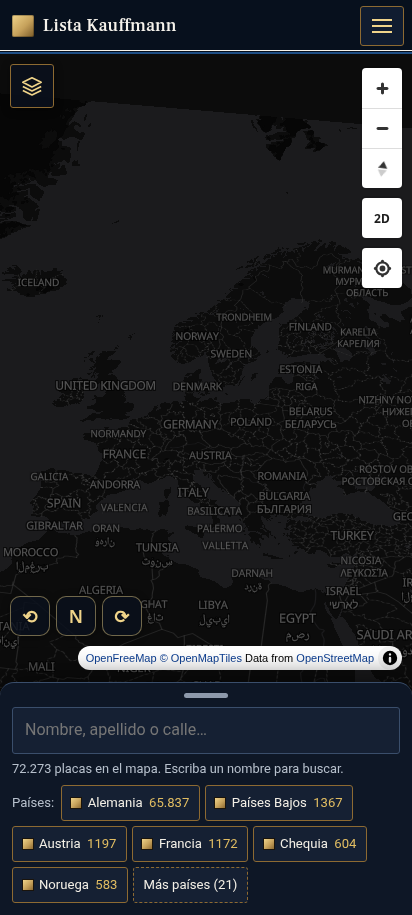
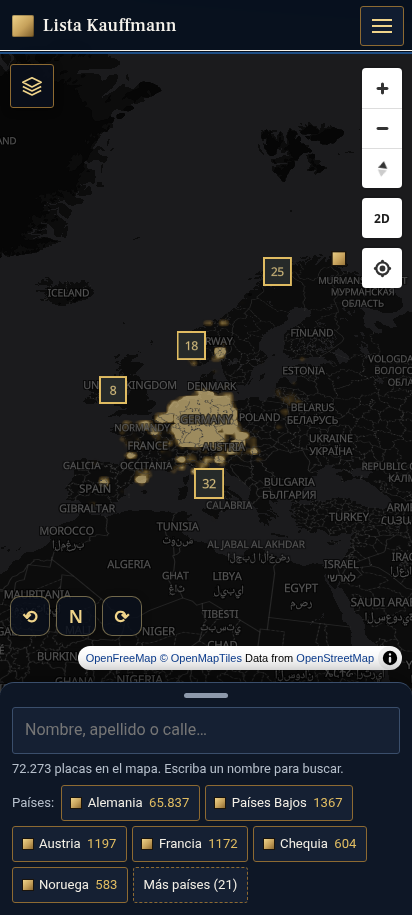
v20: 27 países (+6.412 placas), todas las placas en la acera (36 residuales documentados), 32 de las 1.480, UI es/de/en, sw kauffmann-v20-pages — LOCAL, sin publicar

diff --git a/pipeline/tools/make_informe20.py b/pipeline/tools/make_informe20.py
@@ -65,6 +65,9 @@ a('- Las placas «legítimas» según la fuente (OSM nivel −1 / Stolperschwell
 
 a('## 6. Auditoría\n')
 a('Los scripts de auditoría y los datos están en `/workspace/audits/countries/v20-indep/` (A: fuente cruda; B: contraste en vivo; C: geometría en vivo + interfaz) y `/workspace/v20-data/`. **Las auditorías independientes las ejecutan auditores distintos del constructor**; sus informes irán a `/workspace/audits/countries/v20-indep/{A,B,C}/`.\n')
+a('## 6b. Pruebas ejecutadas (por el constructor, no son auditorías independientes)\n')
+a('- `tests/run-all.sh` con `REQUIRE_OAV=1` en un venv nuevo (`tests/requirements-ci.txt`): OK (unitarias del pipeline, ai-door-check, ai-sim, sidewalk-render-check y sidewalk-render-check20 [7.950 placas; 4 residuales documentados], map2d, fila de países, ficha de Hassall, atribución + axe 0). `country-buttons-check` (27 países; 30 fallos de la primera pasada corregidos con `padding` móvil `left: 72`) pasó en 320×568, 360×740, 360×640, 390×844 y 412×915; en la última pasada completa solo `run-all` con `SKIP_COUNTRY_BUTTONS=1`.')
+a('- Capturas a 412 px: `shots/p412-v20-*.png` (inicio con la fila plegada, fila abierta, vista de NL/FR/AT/NO/CZ, primeros planos 2D y 3D en acera de NL/FR/NO/AT/DE), `shots/v20-shots.json`.\n')
 a('## 7. Archivos\n')
 a('- `data/stones.json` (con `dla`/`dlo`), `data/v20-added-20261120.json` (manifiesto), `data/sidewalk-v20.json`, `pendiente-v20.csv`, `pendiente-1480-v20.csv`, `INFORME-v20-personas.csv`.')
 a('- Código: `pipeline/tools/{v20_common,build_v20,merge_v20,verify1480,sidewalk20,ui20,make_informe20}.py`.')

diff --git a/INFORME-v20.md b/INFORME-v20.md
@@ -1,6 +1,6 @@
 # INFORME v20 — países nuevos, colocación en la acera (Alemania incluida) y las 1.480 de Wikidata
 
-Generado 2026-11-20 05:52 (hora de Berlín). Prototipo local sobre la v19 publicada (commit 49e7725). **Nada publicado, sin push.**
+Generado 2026-11-20 06:53 (hora de Berlín). Prototipo local sobre la v19 publicada (commit 49e7725). **Nada publicado, sin push.**
 
 ## 1. Resumen
 
@@ -110,6 +110,11 @@ Detalle por ítem: `pendiente-1480-v20.csv` (resultado, motivo v14 y motivo v20)
 ## 6. Auditoría
 
 Los scripts de auditoría y los datos están en `/workspace/audits/countries/v20-indep/` (A: fuente cruda; B: contraste en vivo; C: geometría en vivo + interfaz) y `/workspace/v20-data/`. **Las auditorías independientes las ejecutan auditores distintos del constructor**; sus informes irán a `/workspace/audits/countries/v20-indep/{A,B,C}/`.
+
+## 6b. Pruebas ejecutadas (por el constructor, no son auditorías independientes)
+
+- `tests/run-all.sh` con `REQUIRE_OAV=1` en un venv nuevo (`tests/requirements-ci.txt`): OK (unitarias del pipeline, ai-door-check, ai-sim, sidewalk-render-check y sidewalk-render-check20 [7.950 placas; 4 residuales documentados], map2d, fila de países, ficha de Hassall, atribución + axe 0). `country-buttons-check` (27 países; 30 fallos de la primera pasada corregidos con `padding` móvil `left: 72`) pasó en 320×568, 360×740, 360×640, 390×844 y 412×915; en la última pasada completa solo `run-all` con `SKIP_COUNTRY_BUTTONS=1`.
+- Capturas a 412 px: `shots/p412-v20-*.png` (inicio con la fila plegada, fila abierta, vista de NL/FR/AT/NO/CZ, primeros planos 2D y 3D en acera de NL/FR/NO/AT/DE), `shots/v20-shots.json`.
 
 ## 7. Archivos
 

diff --git a/ESTADO-v20.md b/ESTADO-v20.md
@@ -50,3 +50,4 @@ Dir de trabajo: /workspace/countries-proto-v20 (copia de v19 = 49e7725, origin/m
 - 07:05 attribution-check: clic por JS (27 países). Lanzado run-all completo (REQUIRE_OAV=1, venv-ci) → runall.log; capturas con v20-shots.py en paralelo.
 - 07:15 capturas 412 px en shots/ (17 png + v20-shots.json). Esperando run-all completo.
 - 07:55 country-buttons: 30 fallos (caja de 32 px tocaba el botón de capas) → mapui.js padding móvil left 40→72; CB 320x568+360x740 OK; faltan 360x640/390x844/412x915 y run-all final (SKIP_COUNTRY_BUTTONS para el resto).
+- 08:20 FINAL: run-all REQUIRE_OAV=1 OK (log /workspace/v20-data/runall_final.log), capturas regeneradas, informe. Commit final local, sin push.
